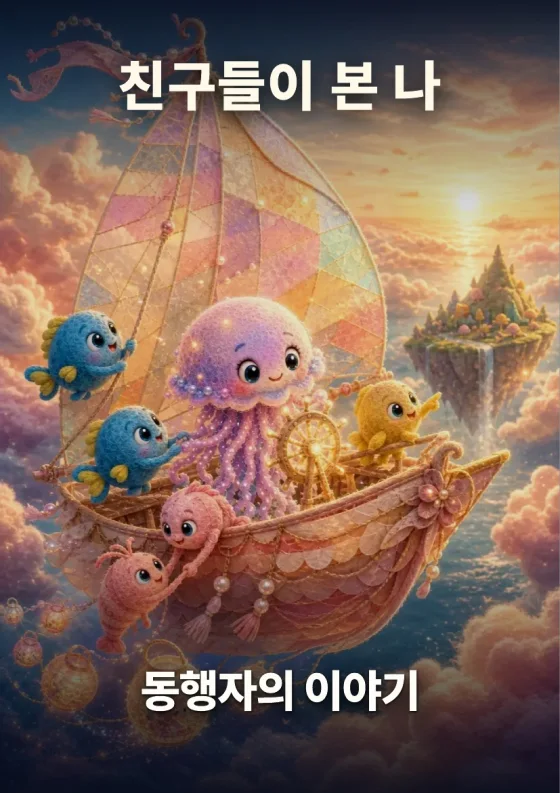
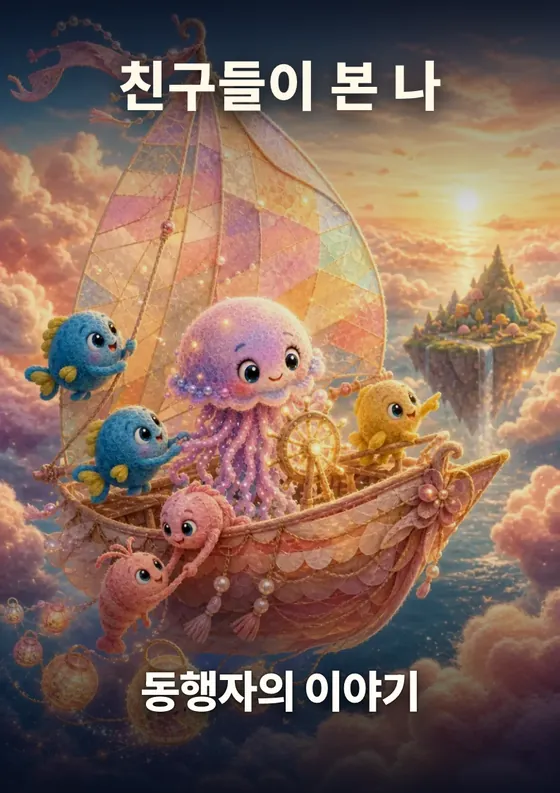
feat(ko): 課金カードのチラ見せ画像を、その人のキャラ別の表紙・本文にする
日本語版と同じく、電子書籍と友達レポートの「?」プレビューを診断キャラに合わせる。
画像は韓国語PDF(/report と /tako-report の印刷ページ、locale=ko)の表紙と本文1ページ目を
32キャラ分書き出したもの(560×793、計96枚・約4.8MB)。説明文は従来の韓国語のまま。

diff --git a/src/components/result/FullAccessPromoCard.tsx b/src/components/result/FullAccessPromoCard.tsx
@@ -331,12 +331,17 @@ export function FullAccessPromoCard({
       ? promoteUnlockItem(baseUnlocks, copy.fortune, copy.unmei)
       : baseUnlocks;
   const reportCharacterSource = reportCharacterImageSrc ?? imageSrc;
-  const characterFriendCover = friendReportPeekImagePath(reportCharacterSource);
-  const characterSelfCover = selfReportPeekImagePath(reportCharacterSource);
+  // 韓国語は韓国語PDFから書き出したキャラ別画像 (560×793) を使う。
+  const peekLocale = isKorean ? "ko" : "ja";
+  const peekCoverHeight = isKorean ? 793 : 841;
+  const peekStoryHeight = isKorean ? 793 : 792;
+  const characterFriendCover = friendReportPeekImagePath(reportCharacterSource, peekLocale);
+  const characterSelfCover = selfReportPeekImagePath(reportCharacterSource, peekLocale);
   const characterSelfStoryPage =
-    selfReportStoryPreviewPagePath(reportCharacterSource);
-  const ebookPeek = basePeeks.ebook;
-  const friendsPeek = basePeeks.friends;
+    selfReportStoryPreviewPagePath(reportCharacterSource, peekLocale);
+  // 韓国語は説明文も韓国語の定義 (peeks) を土台にし、画像だけキャラ別に差し替える。
+  const ebookPeek = isKorean ? peeks.ebook : basePeeks.ebook;
+  const friendsPeek = isKorean ? peeks.friends : basePeeks.friends;
   // English previews use dedicated localized artwork. The per-character report
   // assets are Japanese PDFs, so substituting them here leaks Japanese text
   // into the English paywall modal.
@@ -351,9 +356,11 @@ export function FullAccessPromoCard({
               img: characterSelfStoryPage,
               alt: isEnglish
                 ? `A story page starring ${imageAlt || "your character"}`
-                : `${imageAlt || "あなた"}を主人公にした短編小説の本文`,
+                : isKorean
+                  ? `${imageAlt || "나"}의 성격 스토리 본문`
+                  : `${imageAlt || "あなた"}を主人公にした短編小説の本文`,
               width: 560,
-              height: 792,
+              height: peekStoryHeight,
             };
           }
           if (index === 1) {
@@ -362,9 +369,11 @@ export function FullAccessPromoCard({
               img: characterSelfCover,
               alt: isEnglish
                 ? `The story cover for ${imageAlt || "your character"}`
-                : `${imageAlt || "あなた"}の短編ストーリー表紙`,
+                : isKorean
+                  ? `${imageAlt || "나"}의 성격 스토리 표지`
+                  : `${imageAlt || "あなた"}の短編ストーリー表紙`,
               width: 560,
-              height: 841,
+              height: peekCoverHeight,
             };
           }
           return page;
@@ -382,9 +391,11 @@ export function FullAccessPromoCard({
                 img: characterFriendCover,
                 alt: isEnglish
                   ? `The friends' perspective report cover for ${imageAlt || "your character"}`
-                  : `${imageAlt || "あなた"}の友達診断まとめレポート表紙`,
+                  : isKorean
+                    ? `${imageAlt || "나"}의 친구 진단 종합 리포트 표지`
+                    : `${imageAlt || "あなた"}の友達診断まとめレポート表紙`,
                 width: 560,
-                height: 841,
+                height: peekCoverHeight,
               }
             : page,
         ),
@@ -397,7 +408,7 @@ export function FullAccessPromoCard({
     ) {
       return {
         ...item,
-        peek: isKorean ? peeks.ebook : characterEbookPeek,
+        peek: characterEbookPeek,
       };
     }
     if (
@@ -406,7 +417,7 @@ export function FullAccessPromoCard({
     ) {
       return {
         ...item,
-        peek: isKorean ? peeks.friends : characterFriendsPeek,
+        peek: characterFriendsPeek,
       };
     }
     return item;

diff --git a/src/lib/report-story-images.ts b/src/lib/report-story-images.ts
@@ -35,6 +35,12 @@ const REPORT_CHARACTER_SLUGS = [
 
 const REPORT_CHARACTER_SLUG_SET = new Set<string>(REPORT_CHARACTER_SLUGS);
 
+// 課金カードの「チラ見」画像の言語。日本語は配布している小説PDFの表紙・本文、
+// 韓国語は韓国語PDF (/report/[token]/print?locale=ko と /tako-report/…) の表紙・本文1ページ目を
+// キャラ別に書き出したもの (public/paywall-peek/ko-*-{slug}-2026.webp、560×793)。
+type PeekLocale = "ja" | "ko";
+const peekPrefix = (locale?: PeekLocale) => (locale === "ko" ? "ko-" : "");
+
 function characterSlugFromImageSrc(imageSrc?: string | null): string | null {
   if (!imageSrc) return null;
 
@@ -60,18 +66,20 @@ export function selfReportStoryImagePath(
 /** 課金カードの「チラ見」で使う、タイトル合成済みの自己診断表紙。 */
 export function selfReportPeekImagePath(
   characterImageSrc?: string | null,
+  locale?: PeekLocale,
 ): string | null {
   const slug = characterSlugFromImageSrc(characterImageSrc);
-  return slug ? `/paywall-peek/self-cover-${slug}-2026.webp` : null;
+  return slug ? `/paywall-peek/${peekPrefix(locale)}self-cover-${slug}-2026.webp` : null;
 }
 
 /** 課金カードの「チラ見」で使う、実配布小説PDFのタイプ別本文ページ。 */
 export function selfReportStoryPreviewPagePath(
   characterImageSrc?: string | null,
+  locale?: PeekLocale,
 ): string | null {
   const slug = characterSlugFromImageSrc(characterImageSrc);
   return slug
-    ? `/paywall-peek/self-story-page-${slug}-2026.webp`
+    ? `/paywall-peek/${peekPrefix(locale)}self-story-page-${slug}-2026.webp`
     : null;
 }
 
@@ -90,7 +98,8 @@ export function friendReportStoryImagePath(
 /** 課金カードの「チラ見」で使う、タイトル合成済みのキャラ別表紙。 */
 export function friendReportPeekImagePath(
   characterImageSrc?: string | null,
+  locale?: PeekLocale,
 ): string | null {
   const slug = characterSlugFromImageSrc(characterImageSrc);
-  return slug ? `/paywall-peek/friends-cover-${slug}-2026.webp` : null;
+  return slug ? `/paywall-peek/${peekPrefix(locale)}friends-cover-${slug}-2026.webp` : null;
 }
